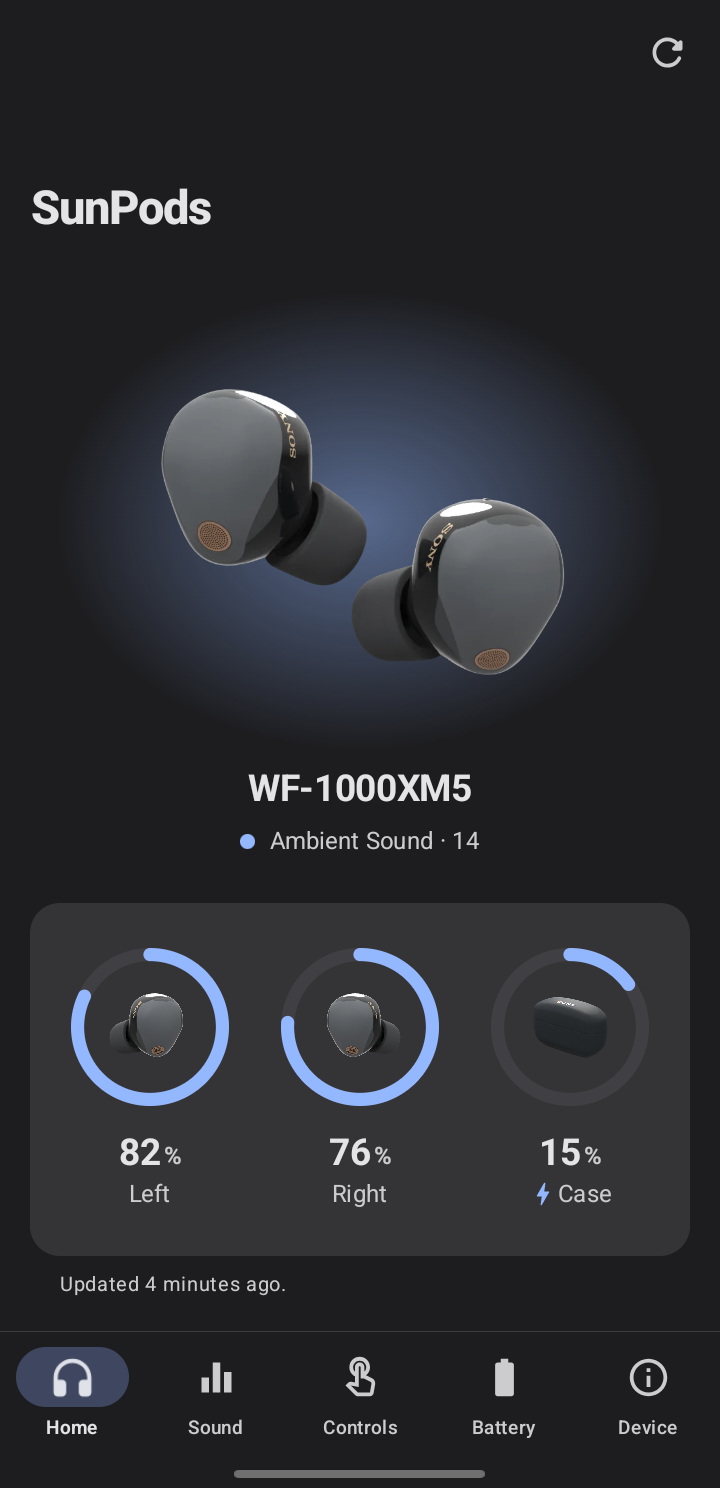
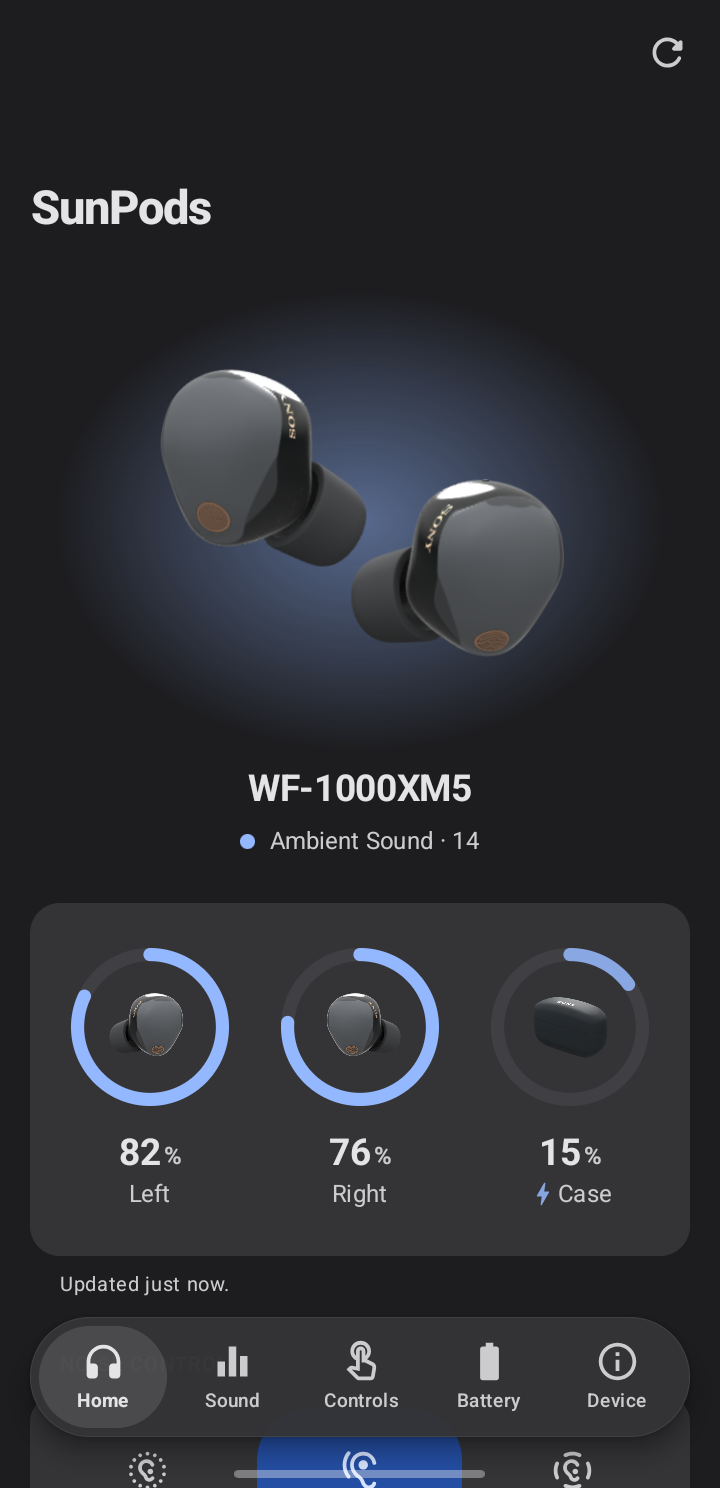
3.0.0: version, changelog, README screenshots

diff --git a/CHANGELOG.md b/CHANGELOG.md
@@ -1,27 +1,30 @@
 # Changelog
 
-## 2.29.0
+## 3.0.0
 
-A new look, and nearly everything Sony's app can do for the WF-1000XM5 (not yet: voice guidance language and firmware updates).
+A new SunPods: redesigned from top to bottom, your earbuds in 3D and in their own colour, nearly everything Sony's app can do (not yet: voice guidance language and firmware updates), and it can update itself.
 
-**Redesign**
-- Shorter tabs: each setting is one row with its value, and the details live one tap deeper on their own page
-- Material You icons on tonal shapes that follow your wallpaper colours
-- A rebuilt Battery tab: listening time left, a clearer history chart you can scrub, and a week view you can tap for each day
-- An animated tab bar, Material page transitions and predictive back (swipe back to peek at where you're going)
-- Sheets, menus and expanding sections open and close smoothly; picking an option shows your choice before the sheet slides away
-- Readings show instantly. Only a new reading animates, so you can see what changed
-- Haptics for switches and choices, a turning refresh button, and a slim bar while a change is saving
-- Clearer, friendlier wording throughout
+**A new look**
+- Your earbuds in live 3D on Home, in their real colour (Black, Platinum Silver or Smoky Pink), read from the earbuds themselves. Drag to spin them. The pictures and setup animations across the app match too.
+- Shorter tabs: each setting is one row with its value, and the details are one tap deeper
+- Pages slide in like the rest of your phone, and swiping back drags the page off under your finger
+- A floating tab bar that tucks away as you scroll, and each tab keeps its place
+- A rebuilt Battery tab, and a case reading that greys out when it's old (the case only reports when you take the earbuds out)
+- Clearer, friendlier wording throughout, and a redesigned setup
 
-**New earbud features**
-- Now Playing with playback controls and volume
-- Head gestures: nod to answer, shake to decline
-- Voice assistant choice
-- Ear tip fit test
-- Turn off earbuds, and reset earbud settings
-- Switch devices automatically, Safe Listening and Volume Protection
-- A While Running automation, and Auto Play when you take your earbuds out
+**New**
+- A live listening level in decibels on the Safe Listening page
+- Now Playing with playback controls and volume, head gestures, voice assistant choice, ear tip fit test, turn off and reset earbuds
+- Switch devices automatically, Safe Listening and Volume Protection, a While Running automation, and Auto Play
+- SunPods updates itself: a card on Home when there's a new version, one tap to install, and What's New after every update
+
+**Fixes**
+- Switching between Classic and LE Audio no longer asks for the case button when the phone already knows the earbuds, and one press now pairs both sides
+- SunPods never removes a working pairing on its own any more
+- Phones that list the earbuds more than once (common with LE Audio) now pick the right one
+- Settings no longer snap back when the earbuds are slow to answer, and voice prompts can be switched on and off again
+- Back from a page goes back to the page before, not out of the app
+- Less battery: background checks stop when you're not looking and ease off when the earbuds don't answer
 
 ## 2.28.0
 
